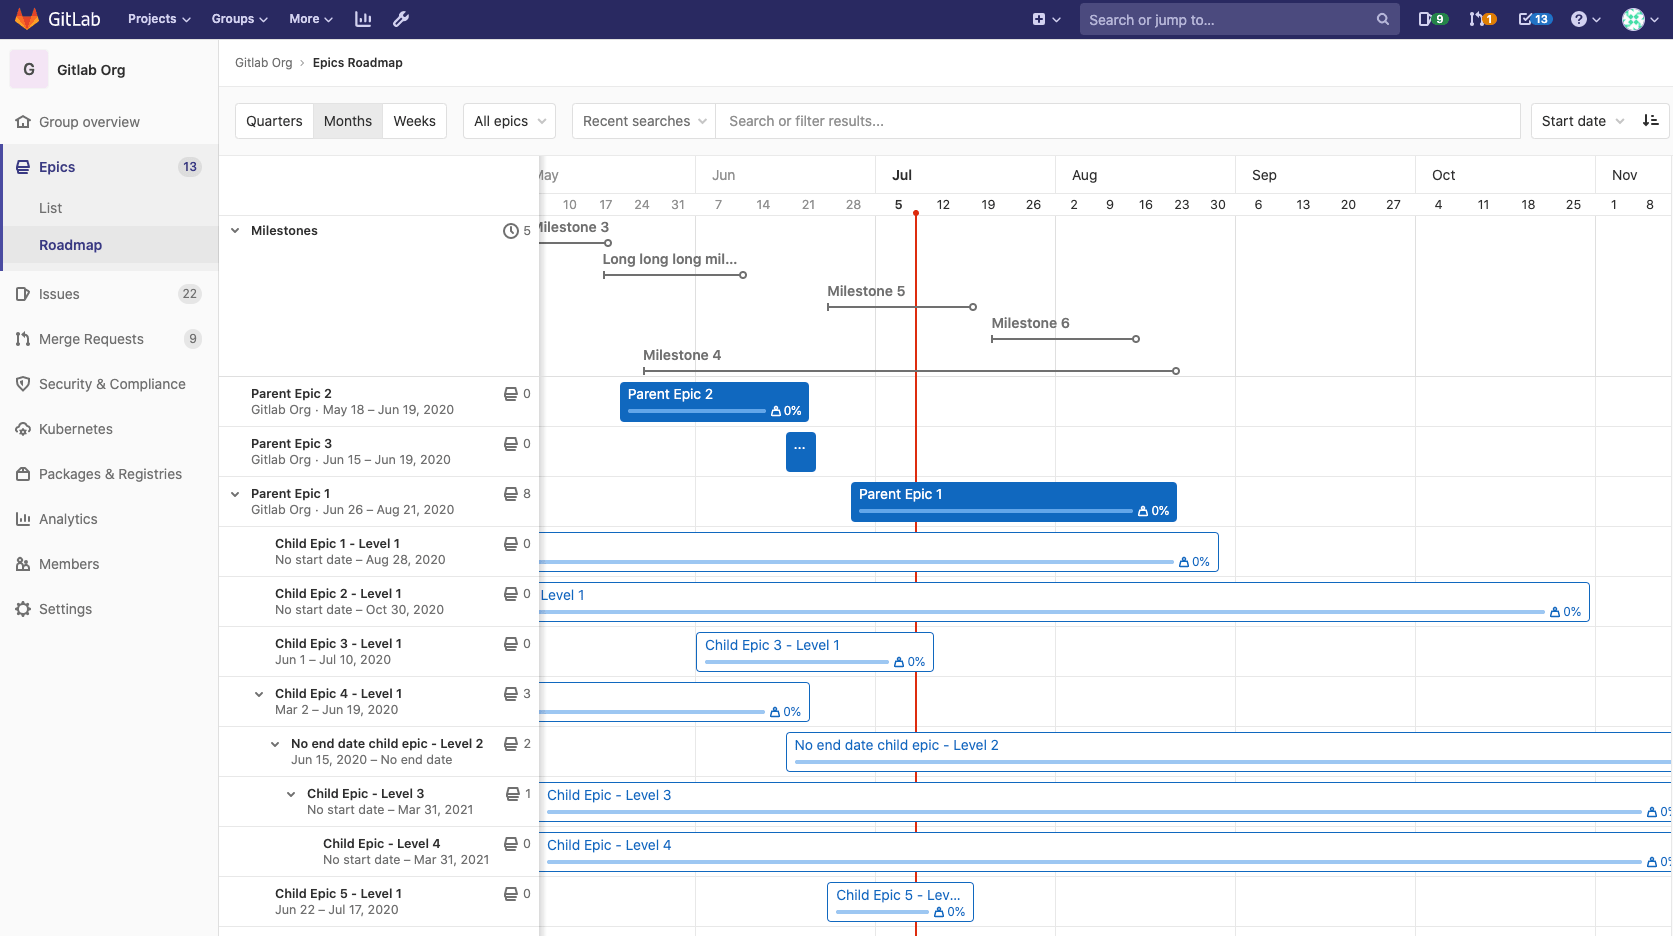
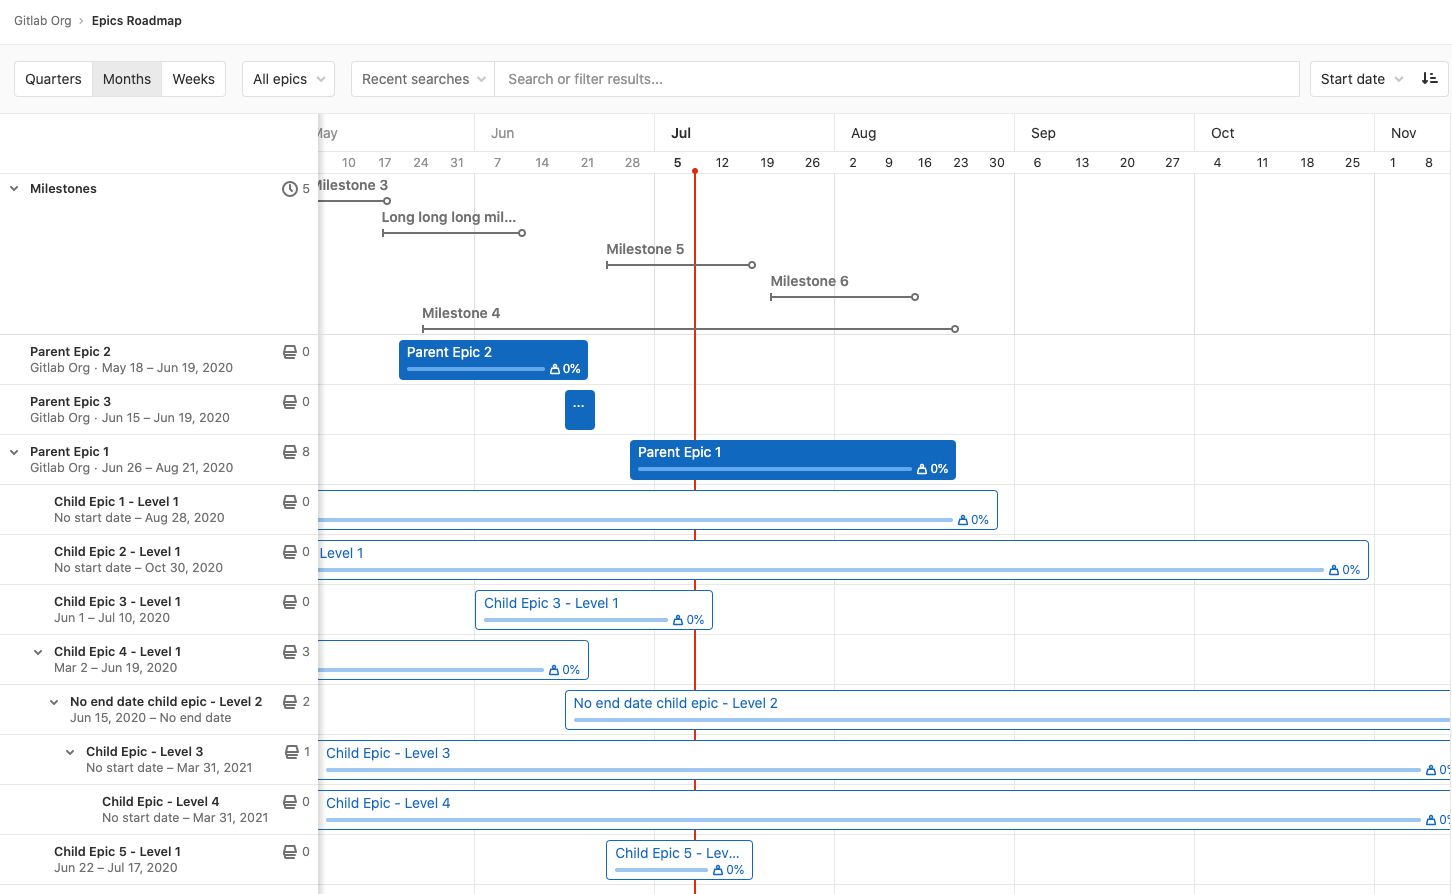
Update screenshots with extra UI shown
Also:

- Delete some unnecessary screenshots
- Edit easy-to-fix stylistical offences in docs

diff --git a/doc/user/todos.md b/doc/user/todos.md
@@ -20,11 +20,12 @@ Your *To-Do List* offers a chronological list of items waiting for your input
 The To-Do List supports tracking [actions](#what-triggers-a-to-do-item) related to
 the following:
 
-- Issues
-- Merge Requests
-- Epics **(ULTIMATE)**
+- [Issues](project/issues/index.md)
+- [Merge requests](project/merge_requests/index.md)
+- [Epics](group/epics/index.md)
+- [Designs](project/issues/design_management.md)
 
-![to-do screenshot showing a list of items to check on](img/todos_index.png)
+![to-do list with items to check on](img/todos_index_v13_11.png)
 
 You can access your To-Do List by clicking the To-Do List icon (**{task-done}**)
 next to the search bar in the top navigation. If the to-do item count is:
@@ -41,7 +42,7 @@ A to-do item appears on your To-Do List when:
 
 - An issue or merge request is assigned to you.
 - You're `@mentioned` in the description or comment of an issue or merge request
-  (or epic **(ULTIMATE)**).
+  (or epic).
 - You are `@mentioned` in a comment on a:
   - Commit
   - Design
@@ -54,7 +55,7 @@ A to-do item appears on your To-Do List when:
 - [In GitLab 13.2](https://gitlab.com/gitlab-org/gitlab/-/issues/12136) and later, a
   merge request is removed from a
   [merge train](../ci/merge_request_pipelines/pipelines_for_merged_results/merge_trains/index.md),
-  and you're the user that added it. **(PREMIUM)**
+  and you're the user that added it.
 
 When several trigger actions occur for the same user on the same object (for
 example, an issue), GitLab displays only the first action as a single to do
@@ -93,18 +94,18 @@ for filtering purposes; otherwise, they appear as normal.
 
 ### Manually creating a to-do item
 
-You can also add the following to your To-Do List by clicking the **Add a to do** button on an:
+You can also add the following to your To-Do List by clicking the **Add a to do** button on:
 
-- [Issue](project/issues/index.md)
-- [Merge Request](project/merge_requests/index.md)
-- [Epic](group/epics/index.md) **(ULTIMATE)**
-- [Design](project/issues/design_management.md)
+- [Issues](project/issues/index.md)
+- [Merge requests](project/merge_requests/index.md)
+- [Epics](group/epics/index.md)
+- [Designs](project/issues/design_management.md)
 
 ![Adding a to-do item from the issuable sidebar](img/todos_add_todo_sidebar.png)
 
 ## Marking a to-do item as done
 
-Any action to an issue or merge request (or epic **(PREMIUM)**) marks its
+Any action to an issue, merge request, or epic marks its
 corresponding to-do item as done.
 
 Actions that dismiss to-do items include:
@@ -119,8 +120,8 @@ action. If you close the issue or merge request, your to-do item is marked as
 done.
 
 To prevent other users from closing issues without you being notified, if
-someone else closes, merges, or takes action on an issue or merge request (or
-epic **(ULTIMATE)**), your to-do item remains pending.
+someone else closes, merges, or takes action on an issue, merge request, or
+epic, your to-do item remains pending.
 
 There's just one to-do item for each of these, so mentioning a user many times
 in an issue only triggers one to-do item.
@@ -132,7 +133,7 @@ your To-Do List.
 ![A to do in the To-Do List](img/todos_todo_list_item.png)
 
 You can also mark a to-do item as done by clicking the **Mark as done** button
-in the sidebar of an issue or merge request (or epic **(ULTIMATE)**).
+in the sidebar of an issue, merge request, or epic.
 
 ![Mark as done from the issuable sidebar](img/todos_mark_done_sidebar.png)
 
@@ -148,7 +149,7 @@ You can use the following types of filters with your To-Do List:
 | Project | Filter by project.                                               |
 | Group   | Filter by group.                                                 |
 | Author  | Filter by the author that triggered the to do.                   |
-| Type    | Filter by issue, merge request, design, or epic. **(ULTIMATE)**  |
+| Type    | Filter by issue, merge request, design, or epic.                 |
 | Action  | Filter by the action that triggered the to do.                   |
 
 You can also filter by more than one of these at the same time. The previously

diff --git a/doc/user/project/milestones/index.md b/doc/user/project/milestones/index.md
@@ -38,7 +38,7 @@ You can assign **group milestones** to any issue or merge request of any project
 To view the group milestone list, in a group, go to **{issues}** **Issues > Milestones**.
 
 You can also view all milestones you have access to in the dashboard milestones list.
-To view both project milestones and group milestones you have access to, click **More > Milestones**
+To view both project milestones and group milestones you have access to, select **More > Milestones**
 on the top navigation bar.
 
 For information about project and group milestones API, see:
@@ -47,9 +47,9 @@ For information about project and group milestones API, see:
 - [Group Milestones API](../../../api/group_milestones.md)
 
 NOTE:
-If you're in a group and click **Issues > Milestones**, GitLab displays group milestones
+If you're in a group and select **Issues > Milestones**, GitLab displays group milestones
 and the milestones of projects in this group.
-If you're in a project and click **Issues > Milestones**, GitLab displays only this project's milestones.
+If you're in a project and select **Issues > Milestones**, GitLab displays only this project's milestones.
 
 ## Creating milestones
 
@@ -58,23 +58,23 @@ A permission level of [Developer or higher](../../permissions.md) is required to
 
 ### New project milestone
 
-To create a **project milestone**:
+To create a project milestone:
 
 1. In a project, go to **{issues}** **Issues > Milestones**.
-1. Click **New milestone**.
+1. Select **New milestone**.
 1. Enter the title, an optional description, an optional start date, and an optional due date.
-1. Click **New milestone**.
+1. Select **New milestone**.
 
 ![New project milestone](img/milestones_new_project_milestone.png)
 
 ### New group milestone
 
-To create a **group milestone**:
+To create a group milestone:
 
 1. In a group, go to **{issues}** **Issues > Milestones**.
-1. Click **New milestone**.
+1. Select **New milestone**.
 1. Enter the title, an optional description, an optional start date, and an optional due date.
-1. Click **New milestone**.
+1. Select **New milestone**.
 
 ![New group milestone](img/milestones_new_group_milestone_v13_5.png)
 
@@ -86,10 +86,10 @@ A permission level of [Developer or higher](../../permissions.md) is required to
 To edit a milestone:
 
 1. In a project or group, go to **{issues}** **Issues > Milestones**.
-1. Click a milestone's title.
-1. Click **Edit**.
+1. Select a milestone's title.
+1. Select **Edit**.
 
-You can delete a milestone by clicking the **Delete** button.
+You can delete a milestone by selecting the **Delete** button.
 
 ### Promoting project milestones to group milestones
 
@@ -182,7 +182,7 @@ The milestone sidebar on the milestone view shows the following:
 - The total time spent on all issues and merge requests assigned to the milestone.
 - The total issue weight of all issues assigned to the milestone.
 
-![Project milestone page](img/milestones_project_milestone_page.png)
+![Project milestone page](img/milestones_project_milestone_page_sidebar_v13_11.png)
 
 <!-- ## Troubleshooting
 

diff --git a/doc/user/project/issues/managing_issues.md b/doc/user/project/issues/managing_issues.md
@@ -67,23 +67,25 @@ When you're creating a new issue, these are the fields you can fill in:
 - Milestone
 - Labels
 
-### New issue from the group-level Issue Tracker
+### New issue from the group-level issue tracker
 
-Go to the Group dashboard and click **Issues** in the sidebar to visit the Issue Tracker
-for all projects in your Group. Select the project you'd like to add an issue for
-using the dropdown button at the top-right of the page.
+To visit the issue tracker for all projects in your group:
 
-![Select project to create issue](img/select_project_from_group_level_issue_tracker.png)
+1. Go to the group dashboard.
+1. In the left sidebar, select **Issues**.
+1. In the top-right, select the **Select project to create issue** button.
+1. Select the project you'd like to create an issue for. The button now appears as **New issue in <your project>**.
+1. Select **New issue in <your project>**.
+
+![Select project to create issue](img/select_project_from_group_level_issue_tracker_v13_11.png)
 
 The project you selected most recently becomes the default for your next visit.
 This should save you a lot of time and clicks, if you mostly create issues for the same project.
 
-![Create issue from group-level issue tracker](img/create_issue_from_group_level_issue_tracker.png)
-
 ### New issue via Service Desk
 
 Enable [Service Desk](../service_desk.md) for your project and offer email support.
-By doing so, when your customer sends a new email, a new issue can be created in
+Now, when your customer sends a new email, a new issue can be created in
 the appropriate project and followed up from there.
 
 ### New issue via email
@@ -207,7 +209,7 @@ description, issues `#4` and `#6` are closed automatically when the MR is merged
 Using `Related to` flags `#5` as a [related issue](related_issues.md),
 but is not closed automatically.
 
-![merge request closing issue when merged](img/merge_request_closes_issue.png)
+![merge request closing issue when merged](img/merge_request_closes_issue_v13_11.png)
 
 If the issue is in a different repository than the MR, add the full URL for the issue(s):
 
@@ -278,12 +280,10 @@ of your installation.
 
 ## Deleting issues
 
-> [Introduced](https://gitlab.com/gitlab-org/gitlab-foss/-/merge_requests/2982) in GitLab 8.6.
-
 Users with [project owner permission](../../permissions.md) can delete an issue by
-editing it and clicking on the delete button.
+editing it and selecting **Delete issue**.
 
-![delete issue - button](img/delete_issue.png)
+![delete issue - button](img/delete_issue_v13_11.png)
 
 ## Promote an issue to an epic **(PREMIUM)**
 

diff --git a/doc/user/project/issues/issue_weight.md b/doc/user/project/issues/issue_weight.md
@@ -7,22 +7,22 @@ info: To determine the technical writer assigned to the Stage/Group associated w
 
 # Issue weight **(PREMIUM)**
 
-> - Moved to GitLab Premium in 13.9.
+> Moved to GitLab Premium in 13.9.
 
 When you have a lot of issues, it can be hard to get an overview.
-By adding a weight to each issue, you can get a better idea of how much time,
-value or complexity a given issue has or costs.
+With weighted issues, you can get a better idea of how much time,
+value, or complexity a given issue has or costs.
 
 You can set the weight of an issue during its creation, by changing the
 value in the dropdown menu. You can set it to a non-negative integer
 value from 0, 1, 2, and so on. (The database stores a 4-byte value, so the
-upper bound is essentially limitless).
+upper bound is essentially limitless.)
 You can remove weight from an issue
 as well.
 
 This value appears on the right sidebar of an individual issue, as well as
-in the issues page next to a distinctive balance scale icon.
+in the issues page next to a weight icon (**{weight}**).
 
 As an added bonus, you can see the total sum of all issues on the milestone page.
 
-![issue page](img/issue_weight.png)
+![issue page](img/issue_weight_v13_11.png)

diff --git a/doc/user/group/bulk_editing/index.md b/doc/user/group/bulk_editing/index.md
@@ -15,7 +15,7 @@ can do it by bulk editing them, that is, editing them together.
 
 Only the items visible on the current page are selected for bulk editing (up to 20).
 
-![Bulk editing](img/bulk-editing_v13_2.png)
+![Bulk editing](img/bulk_editing_v13_11.png)
 
 ## Bulk edit issues at the group level
 

diff --git a/doc/user/project/bulk_editing.md b/doc/user/project/bulk_editing.md
@@ -16,7 +16,7 @@ by bulk editing them, that is, editing them together.
 
 Only the items visible on the current page are selected for bulk editing (up to 20).
 
-![Bulk editing](img/bulk-editing_v13_2.png)
+![Bulk editing](img/bulk_editing_v13_11.png)
 
 ## Bulk edit issues at the project level
 
